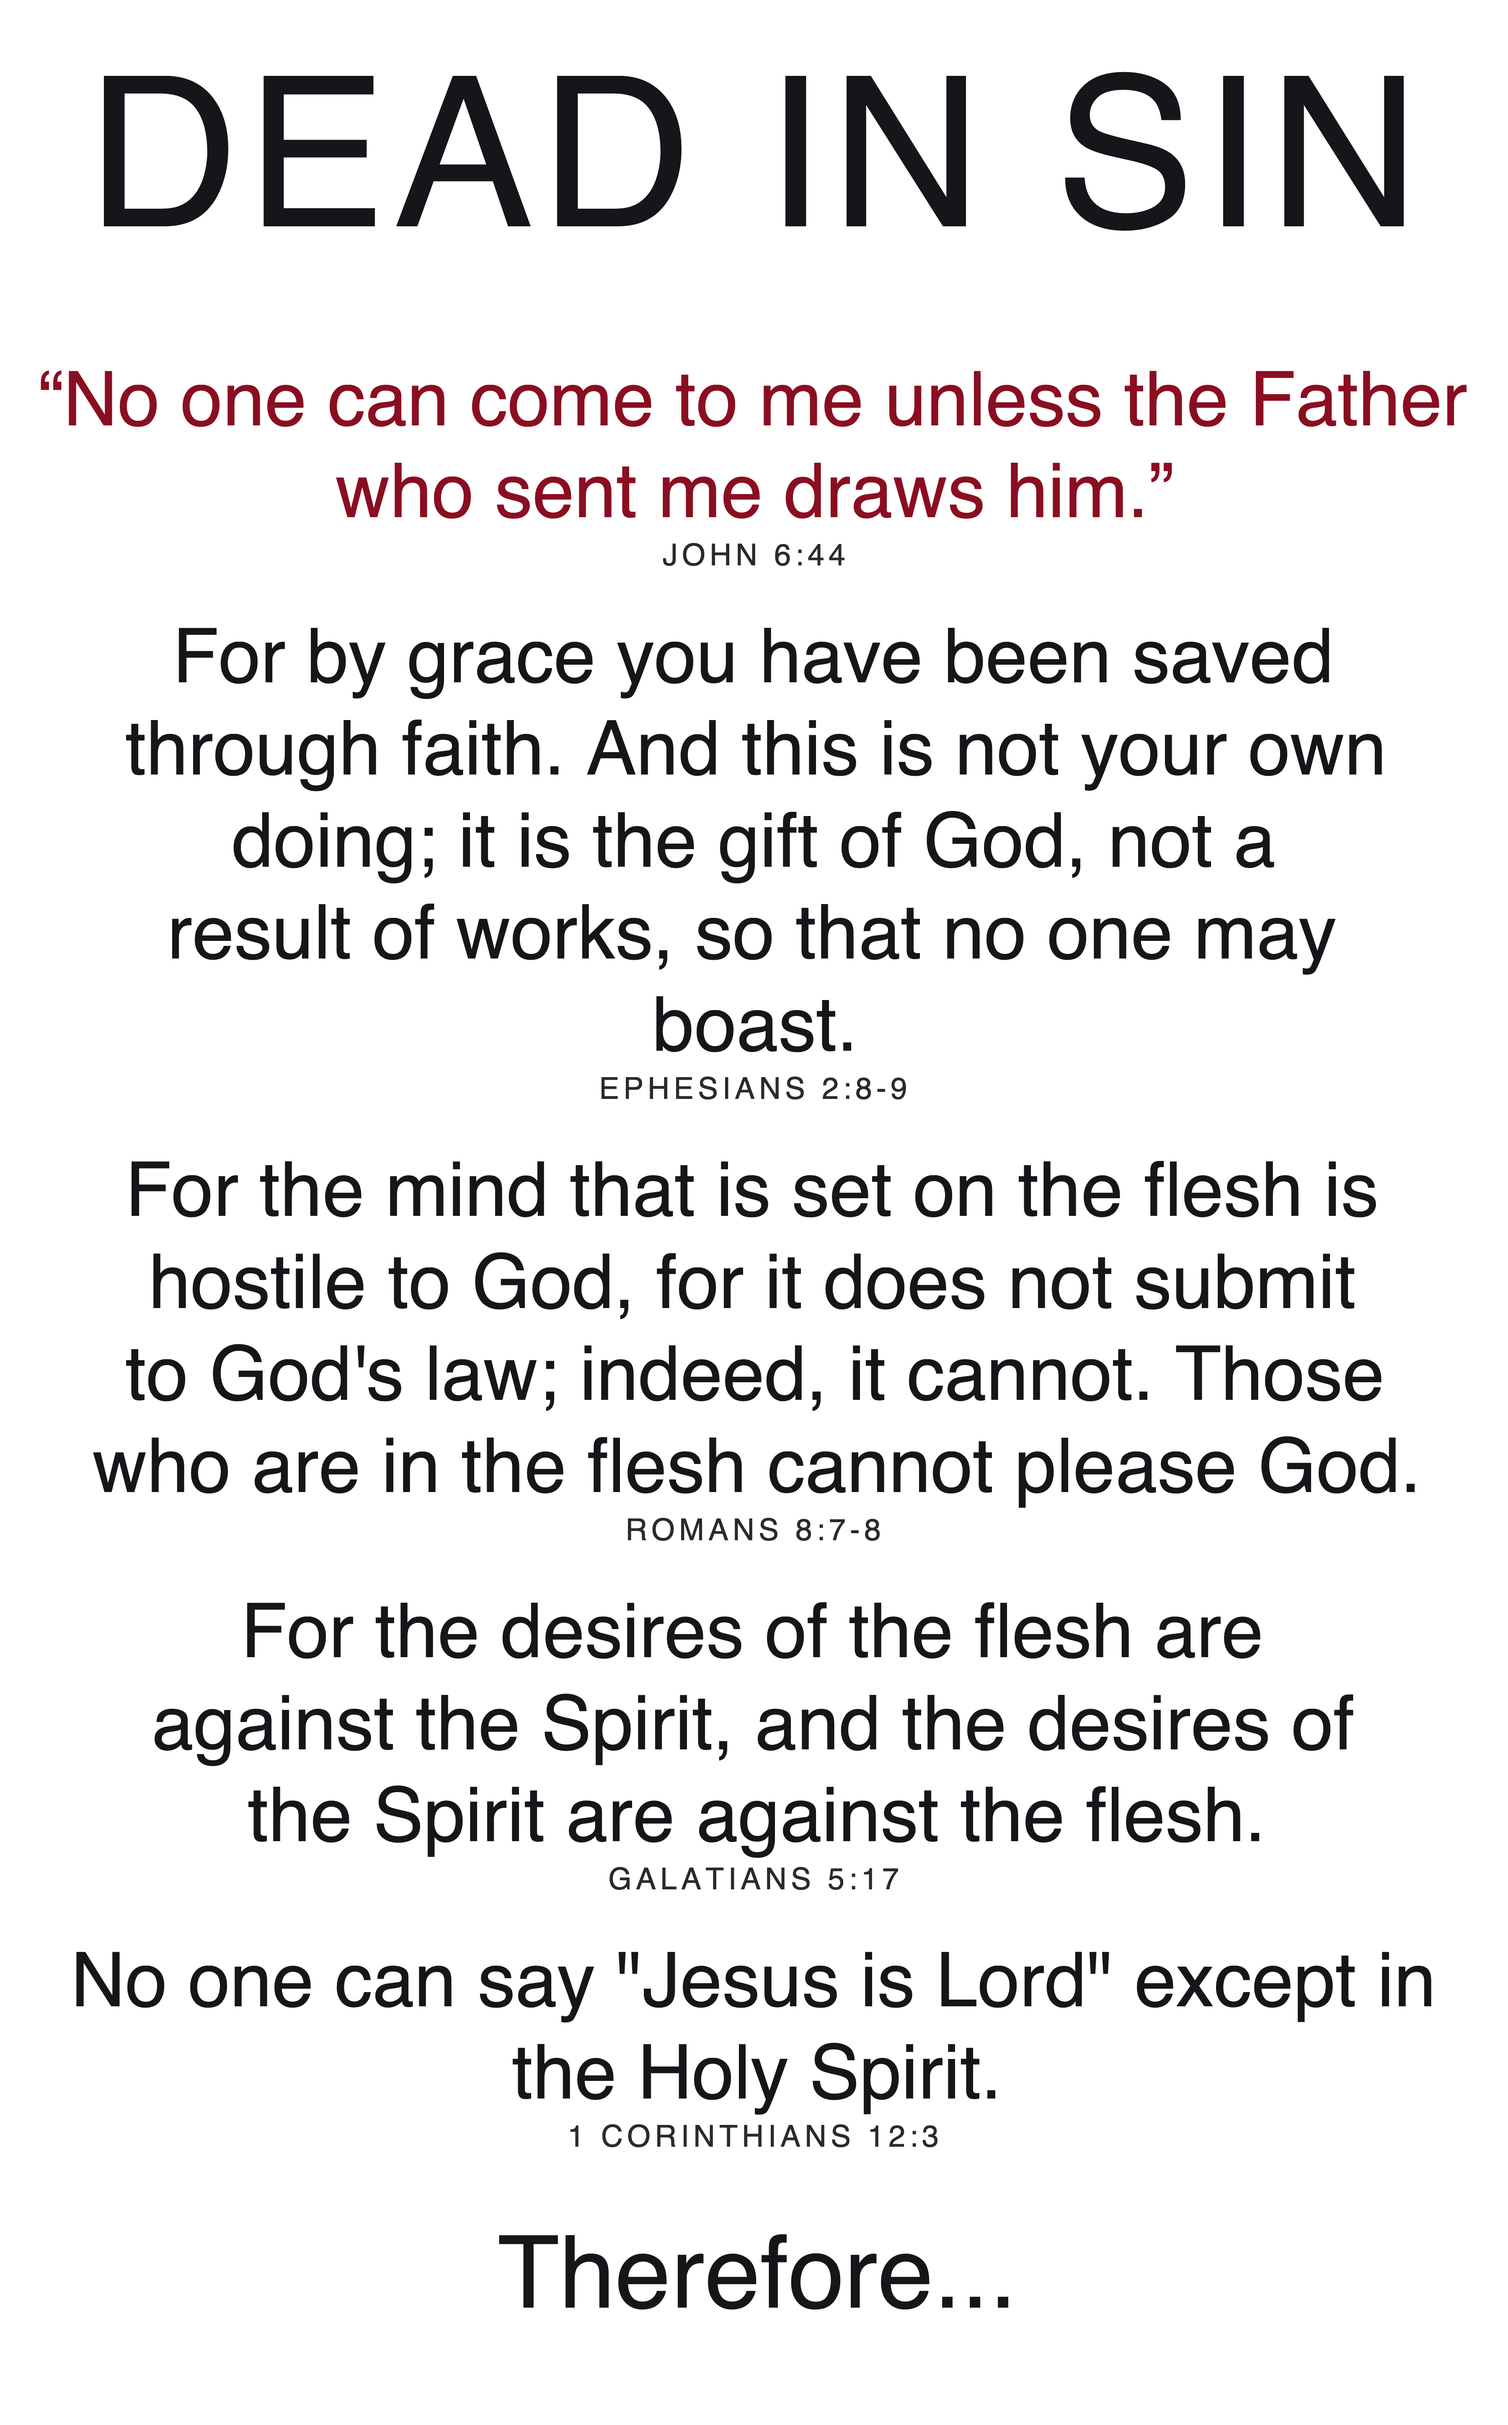
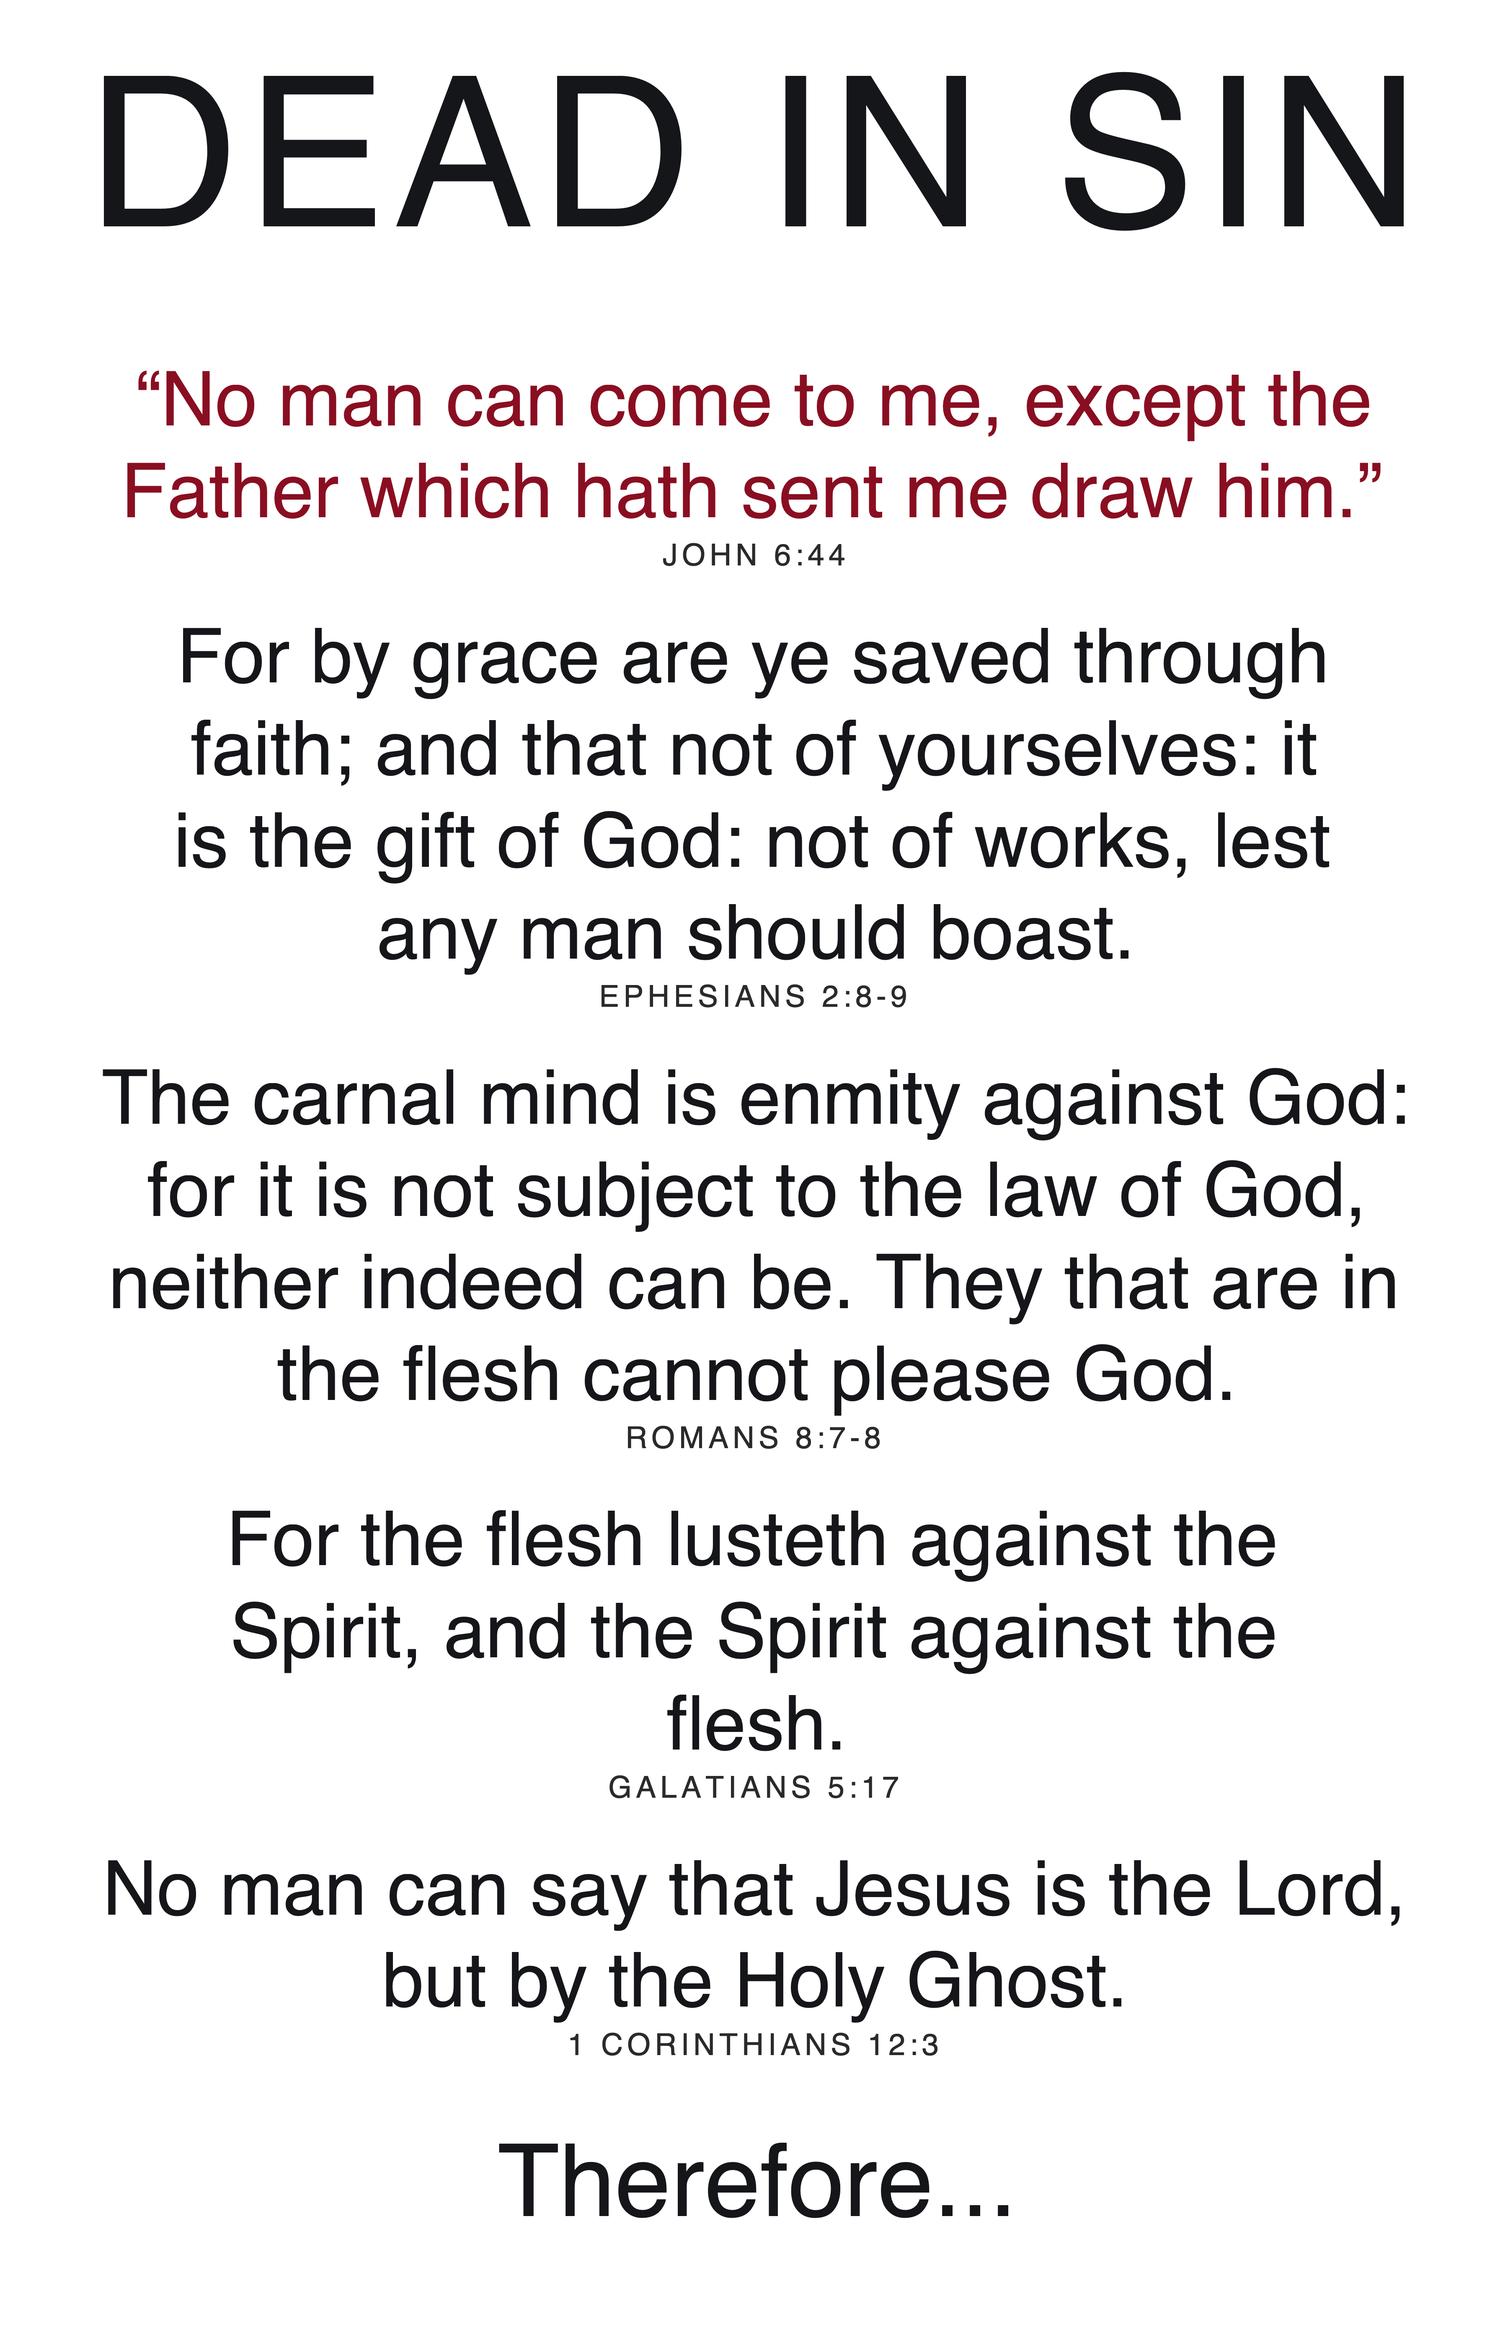
Switch verses to KJV and catechism to Triglotta — public domain text
- Bible verses on the front swapped from ESV (Crossway, restricted for
  commercial use) to the King James Version (1611, public domain in the
  US). Same passages, KJV phrasing — "carnal mind is enmity against
  God", "by the Holy Ghost", etc.
- Catechism explanation on the back swapped from the CPH 1986
  translation (copyrighted) to the Concordia Triglotta translation
  (Bente / Dau, 1921, public domain). Uses "Holy Ghost" and capitalized
  deity pronouns, matching the KJV voice on the front.

Result: every text element on the shirt is now public domain. Future
50-shirt commercial run, online sales, etc. require no licensing.

diff --git a/shirts/third-article.md b/shirts/third-article.md
@@ -11,32 +11,32 @@ back_heading: |
 ## Front
 
 ### John 6:44 {jesus}
-No one can come to me unless the Father who sent me draws him.
+No man can come to me, except the Father which hath sent me draw him.
 
 ### Ephesians 2:8-9
-For by grace you have been saved through faith. And this is not your own doing; it is the gift of God, not a result of works, so that no one may boast.
+For by grace are ye saved through faith; and that not of yourselves: it is the gift of God: not of works, lest any man should boast.
 
 ### Romans 8:7-8
-For the mind that is set on the flesh is hostile to God, for it does not submit to God's law; indeed, it cannot. Those who are in the flesh cannot please God.
+The carnal mind is enmity against God: for it is not subject to the law of God, neither indeed can be. They that are in the flesh cannot please God.
 
 ### Galatians 5:17
-For the desires of the flesh are against the Spirit, and the desires of the Spirit are against the flesh.
+For the flesh lusteth against the Spirit, and the Spirit against the flesh.
 
 ### 1 Corinthians 12:3
-No one can say "Jesus is Lord" except in the Holy Spirit.
+No man can say that Jesus is the Lord, but by the Holy Ghost.
 
 ### Closing
 Therefore...
 
 ## Back
 
-I believe that I cannot by my own reason or strength believe in Jesus Christ, my Lord, or come to him; but the Holy Spirit has called me by the gospel, enlightened me with his gifts, sanctified and kept me in the true faith.
+I believe that I cannot by my own reason or strength believe in Jesus Christ, my Lord, or come to Him; but the Holy Ghost has called me by the Gospel, enlightened me with His gifts, sanctified and kept me in the true faith;
 
-In the same way he calls, gathers, enlightens, and sanctifies the whole Christian church on earth, and keeps it with Jesus Christ in the one true faith.
+even as He calls, gathers, enlightens, and sanctifies the whole Christian Church on earth, and keeps it with Jesus Christ in the one true faith;
 
-In this Christian church he daily and richly forgives all my sins and the sins of all believers.
+in which Christian Church He forgives daily and richly all sins to me and all believers,
 
-On the last day he will raise me and all the dead, and give eternal life to me and all believers in Christ.
+and at the last day will raise up me and all the dead, and will give to me and to all believers in Christ everlasting life.
 
 ### Closing
 This is most certainly true.
